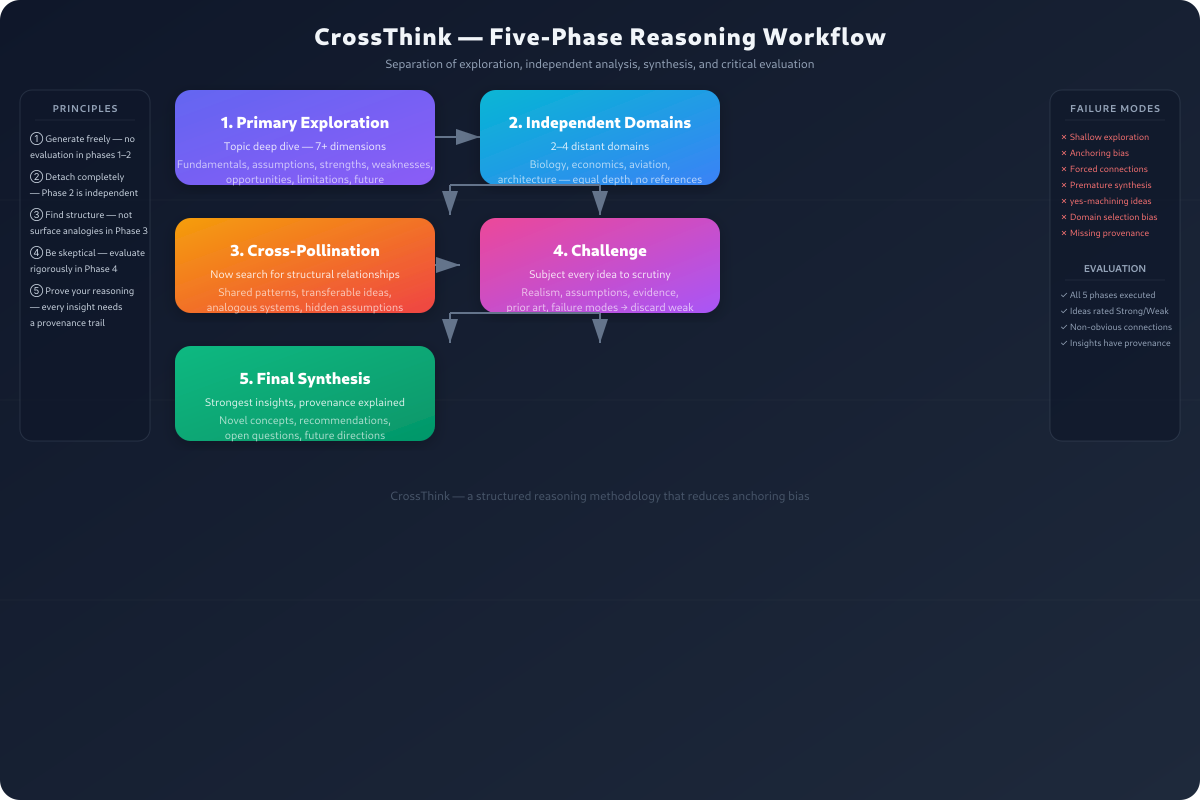
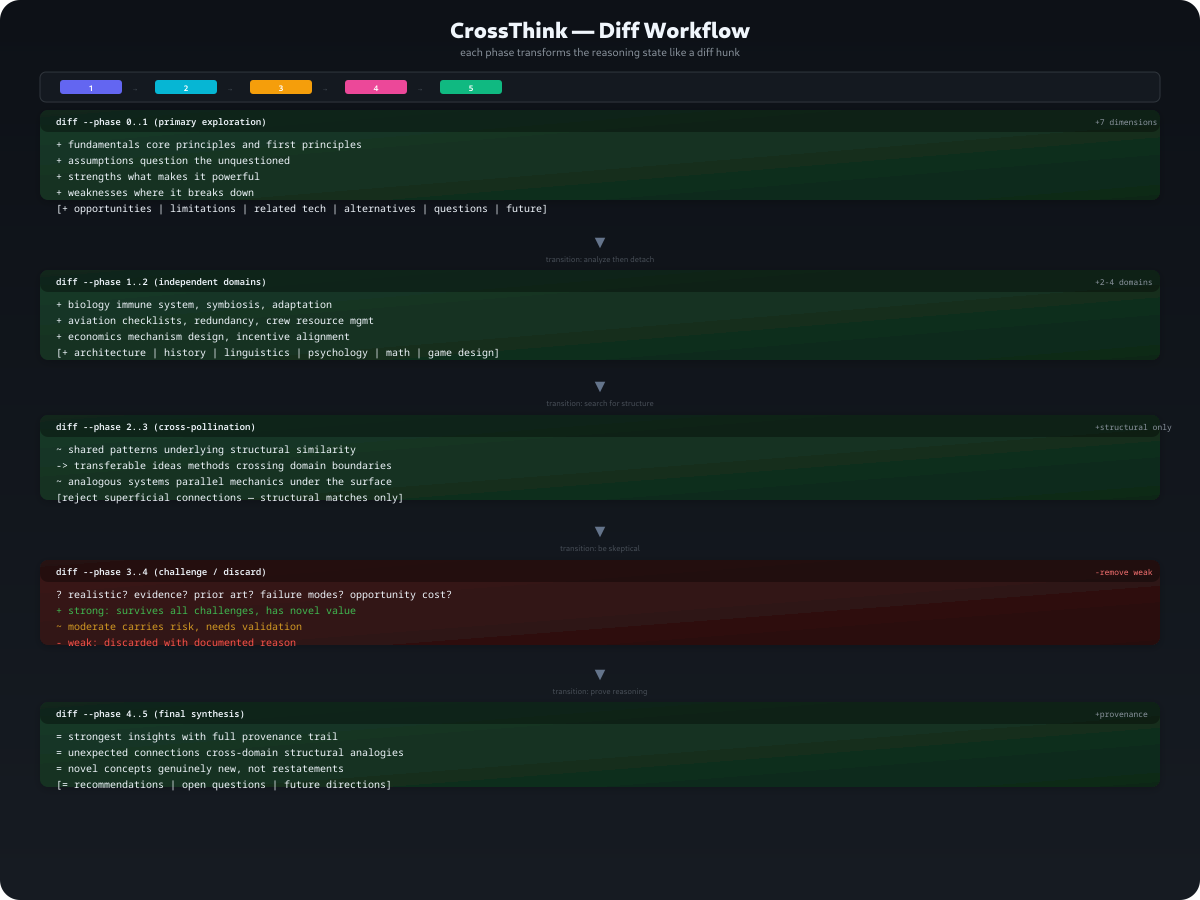
Rework workflow section with diff technique
- Replace flowchart-style workflow with diff hunk visualization
- New workflow.svg shows each phase as a diff hunk (+/~/?/−/= markers)
- README workflow section now uses inline diff notation
- Regenerated workflow.png from updated SVG

diff --git a/README.md b/README.md
@@ -31,28 +31,58 @@ Standard brainstorming tends to:
 ## The Five-Phase Workflow
 
 <p align="center">
-  <img src="images/workflow.png" alt="CrossThink Workflow Diagram" width="700"/>
+  <img src="images/workflow.png" alt="CrossThink Diff Workflow" width="700"/>
 </p>
 
-### Phase 1 — Primary Exploration
+Each phase is a diff hunk transforming the reasoning state — additions, deletions, and structural transformations — not a linear checklist.
 
-Explore the user's topic with depth across fundamentals, assumptions, applications, strengths, weaknesses, opportunities, limitations, related technologies, alternative approaches, unanswered questions, and future possibilities. Continue until additional exploration produces diminishing returns — the stopping criterion is based on **reasoning quality**, not an arbitrary number.
+```diff
+diff --phase 0..1  (primary exploration)
++ fundamentals   core principles and first principles
++ assumptions    question the unquestioned
++ strengths      what makes it powerful
++ weaknesses     where it breaks down
++ opportunities  gaps and unmet needs
++ limitations    hard constraints (physical, economic, temporal)
++ related-tech   adjacent methods and technologies
++ alternatives   other ways to solve the same problem
++ unknowns       what remains unanswered
++ future         what would transform this topic
+— stop when new ideas become restatements, not new lines of thought
 
-### Phase 2 — Independent Domain Exploration
+diff --phase 1..2  (independent domains)
++ biology          immune system, symbiosis, adaptation
++ aviation         checklists, redundancy, crew resource mgmt
++ economics        mechanism design, incentive alignment
++ architecture     spatial flow, wayfinding, thresholds
++ history          diffusion, transitions, forgotten ideas
++ linguistics      framing, pragmatics, semantic shift
+— detach completely — no referencing phase 1 notes
 
-Completely detach from the original topic. Select 2–4 distant domains (biology, aviation, economics, architecture, history, etc.) and explore each with equal depth **without referencing Phase 1 notes**. The goal is genuine cognitive independence.
+diff --phase 2..3  (cross-pollination)
+~ shared patterns       underlying structural similarity
+→ transferable ideas    methods crossing domain boundaries
+~ analogous systems     parallel mechanics beneath surface
+? hidden assumptions    what the original topic takes for granted
+— reject superficial connections — structural matches only
 
-### Phase 3 — Cross-Pollination
+diff --phase 3..4  (challenge / discard)
+? realism      achievable given known constraints?
+? evidence     anything supporting or contradicting?
+? prior-art    has this been attempted? what happened?
+? failure-modes    how could this fail specifically?
+− weak ideas   discarded with documented justification
++ strong       survives all challenges, generates novel value
+~ moderate     carries risk, needs validation
 
-Only after both explorations are complete, search for structural relationships. Shared patterns, transferable ideas, analogous systems, hidden assumptions, surprising similarities, and unconventional applications. Reject superficial analogies — only structural connections survive.
-
-### Phase 4 — Challenge
-
-Subject every major idea to scrutiny: realism, assumption validity, evidence, prior art, failure modes, and opportunity cost. Classify ideas as **Strong**, **Moderate**, or **Weak** with written justification. Discard weak ideas explicitly.
-
-### Phase 5 — Final Synthesis
-
-Produce the strongest insights, unexpected cross-domain connections, novel concepts, practical recommendations, open research questions, and promising future directions. Every major insight must include a **provenance explanation** of which phases and domains produced it.
+diff --phase 4..5  (final synthesis)
+= strongest insights      with full provenance trail
+= unexpected connections  cross-domain structural analogies
+= novel concepts          genuinely new, not restatements
+= recommendations         specific and actionable
+= open questions          unanswered, needing investigation
+= future directions       where it could go without constraints
+```
 
 ---
 
